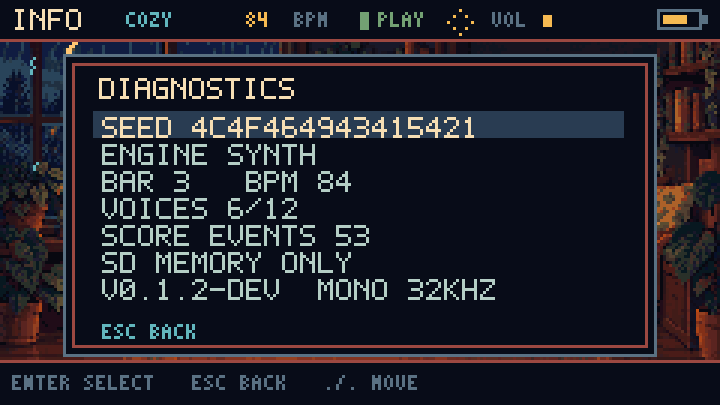
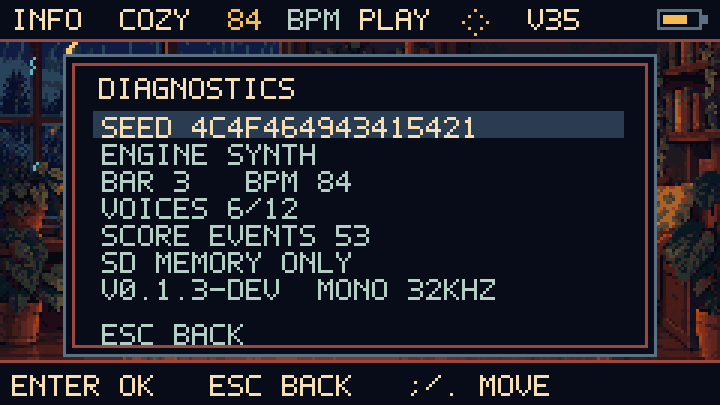
Fix LCD RGB565 byte order and improve small-screen text readability

diff --git a/firmware/src/ui/ui.cpp b/firmware/src/ui/ui.cpp
@@ -2,6 +2,7 @@
 
 #include <cstddef>
 #include <cstdint>
+#include <cstdio>
 
 namespace lofi {
 
@@ -120,6 +121,7 @@ std::uint8_t glyph5Row(char c, int row) {
     case '_': return row == 6 ? 0x1f : 0;
     case '.': return row == 6 ? 0x04 : 0;
     case ',': return row == 5 ? 0x04 : (row == 6 ? 0x08 : 0);
+    case ';': return row == 2 || row == 5 ? 0x04 : (row == 6 ? 0x08 : 0);
     case ':': return (row == 2 || row == 5) ? 0x04 : 0;
     case '!': return (row < 5) ? 0x04 : (row == 6 ? 0x04 : 0);
     case '?': return row == 0 ? 0x0e : (row == 1 ? 0x11 :
@@ -394,37 +396,34 @@ void drawStatus(Frame& frame, const View& view, const char* title) {
     frame.fillRect(0, 0, 240, 14, Ink);
     frame.fillRect(0, 13, 240, 1, Brick);
     drawText(frame, 4, 3, title, Cream, 35);
-    drawTinyText(frame, 42, 4, moodName(view.mood), Rain, 34);
-    drawTinyNumber(frame, 82, 4, clampInt(view.bpm, 0, 999), Gold, 13);
-    drawTinyText(frame, 98, 4, "BPM", Haze, 20);
-    if (view.playing) {
-        drawTinyText(frame, 126, 4, "PLAY", Leaf, 24);
-        frame.fillRect(120, 4, 3, 6, Leaf);
-    } else {
-        drawTinyText(frame, 126, 4, "PAUSE", Amber, 28);
-        frame.fillRect(120, 4, 2, 6, Amber);
-        frame.fillRect(123, 4, 2, 6, Amber);
-    }
+    drawText(frame, 40, 3, moodName(view.mood), Cream, 29);
+    char bpm[4], volume[5];
+    std::snprintf(bpm, sizeof(bpm), "%d", clampInt(view.bpm, 0, 999));
+    std::snprintf(volume, sizeof(volume), "V%d", clampInt(view.volume, 0, 100));
+    drawText(frame, 76, 3, bpm, Gold, 17);
+    drawText(frame, 96, 3, "BPM", Moon, 17);
+    drawText(frame, 120, 3, view.playing ? "PLAY" : "PAUSE", Cream, 29);
     if (view.favorite) {
-        drawStar(frame, 153, 7, Gold);
+        drawStar(frame, 158, 7, Gold);
     }
-    drawTinyText(frame, 164, 4, "VOL", Haze, 18);
-    frame.fillRect(181, 5, clampInt(view.volume, 0, 100) / 10, 4, view.volume == 0 ? Brick : Gold);
+    drawText(frame, 176, 3, volume, view.volume == 0 ? Amber : Cream, 23);
     drawBattery(frame, 219, 3, view.batteryPercent);
 }
 
 void drawFooter(Frame& frame, const View& view) {
-    frame.fillRect(0, 118, 240, 17, Ink);
-    frame.fillRect(0, 118, 240, 1, Brick);
+    // Two seven-pixel rows, with solid backing and a two-pixel line gap.
+    // Keep the essentials here; the help screen carries the full key list.
+    frame.fillRect(0, 115, 240, 20, Ink);
+    frame.fillRect(0, 115, 240, 1, Brick);
     if (view.notice[0] != '\0') {
-        drawTinyText(frame, 4, 121, view.notice, Gold, 232);
-        drawTinyText(frame, 4, 128, "SPACE PLAY   -/= VOL   H HELP", Haze, 232);
+        drawText(frame, 4, 118, view.notice, Gold, 232);
+        drawText(frame, 4, 127, "SPACE PLAY   -/= VOL   H HELP", Cream, 232);
     } else if (view.pending) {
-        drawTinyText(frame, 4, 121, "NEXT SESSION QUEUED", Gold, 130);
-        drawTinyText(frame, 4, 128, "SPACE PLAY   -/= VOL   N NEXT", Haze, 232);
+        drawText(frame, 4, 118, "NEXT SESSION QUEUED", Gold, 232);
+        drawText(frame, 4, 127, "SPACE PLAY   -/= VOL   H HELP", Cream, 232);
     } else {
-        drawTinyText(frame, 4, 121, "SPACE PLAY   -/= VOL   N NEXT   M MOOD", Haze, 232);
-        drawTinyText(frame, 4, 128, "F FAVORITE   L LIST   V CLEAN   S SET   H HELP", Haze, 232);
+        drawText(frame, 4, 118, "SPACE PLAY   -/= VOL   M MOOD", Cream, 232);
+        drawText(frame, 4, 127, "N NEXT   F FAV   V CLEAN   H HELP", Cream, 232);
     }
 }
 
@@ -449,7 +448,7 @@ void drawMenuFrame(Frame& frame, const char* title, const View& view) {
         drawCenteredText(frame, 34, 170, 54, "NO ITEMS YET", Haze);
         drawCenteredText(frame, 34, 170, 66, "PRESS ESC TO RETURN", Haze);
     }
-    drawTinyText(frame, 34, 108, "ENTER SELECT   ESC BACK   ,/. MOVE", Rain, 168);
+    // Navigation hints live in the footer, outside the eight menu rows.
 }
 
 void drawHelp(Frame& frame, const View& view) {
@@ -458,16 +457,17 @@ void drawHelp(Frame& frame, const View& view) {
     frame.rect(13, 18, 214, 99, Brick);
     drawText(frame, 20, 22, "POCKET LOFI KEYS", Cream, 200);
     static const char* const lines[] = {
-        "SPACE PLAY / PAUSE", "- = VOLUME", "N NEXT SESSION", "M MOODS",
+        "SPACE PLAY/PAUSE", "- = VOLUME", "N NEXT SESSION", "M MOODS",
         "F FAVORITE", "L FAVORITES", "V CLEAN VIEW", "S SETTINGS",
-        "H HELP", "ENTER SELECT", "ESC BACK", ", /. MOVE",
+        "E SYNTH/HYBRID", "H HELP", "ENTER SELECT", "ESC BACK",
+        "; . UP/DOWN", ", / ADJUST",
     };
-    for (int i = 0; i < 12; ++i) {
-        const int x = (i & 1) == 0 ? 20 : 126;
+    for (int i = 0; i < 14; ++i) {
+        const int x = (i & 1) == 0 ? 20 : 128;
         const int y = 34 + (i / 2) * 11;
-        drawTinyText(frame, x, y + 1, lines[i], (i == 0 || i == 8) ? Gold : Moon, 96);
+        drawText(frame, x, y, lines[i], (i == 0 || i == 8) ? Gold : Cream, 101);
     }
-    drawTinyText(frame, 20, 108, view.notice[0] != '\0' ? view.notice : "SMALL KEYS KEEP THE ROOM QUIET", Rain, 198);
+    (void)view;
 }
 
 void drawDiagnostics(Frame& frame, const View& view) {
@@ -500,7 +500,7 @@ void drawDiagnostics(Frame& frame, const View& view) {
                      view.sdReady ? Leaf : Amber, 171);
         drawTinyText(frame, 34, 91, view.clean ? "CLEAN VIEW ON" : "OVERLAY VIEW ON", Rain, 171);
     }
-    drawTinyText(frame, 34, 108, "ESC BACK", Rain, 178);
+    drawText(frame, 34, 108, "ESC BACK", Moon, 178);
 }
 
 void drawOverlay(Frame& frame, const View& view) {
@@ -646,8 +646,8 @@ void render(Frame& frame, const View& view) {
             drawStatus(frame, view, "RADIO");
             drawFooter(frame, view);
         } else if (!view.playing || view.pending) {
-            frame.fillRect(4, 4, 68, 10, Ink);
-            drawTinyText(frame, 8, 6, view.playing ? "NEXT QUEUED" : "PAUSED", view.pending ? Gold : Amber, 60);
+            frame.fillRect(4, 4, 68, 12, Ink);
+            drawText(frame, 8, 6, view.playing ? "NEXT QUEUED" : "PAUSED", view.pending ? Gold : Cream, 60);
         }
         return;
     }
@@ -656,7 +656,7 @@ void render(Frame& frame, const View& view) {
     drawOverlay(frame, view);
     frame.fillRect(0, 120, 240, 15, Ink);
     frame.fillRect(0, 120, 240, 1, Brick);
-    drawTinyText(frame, 4, 125, "ENTER SELECT   ESC BACK   ,/. MOVE", Haze, 232);
+    drawText(frame, 4, 125, "ENTER OK   ESC BACK   ;/. MOVE", Cream, 232);
 }
 
 } // namespace lofi

diff --git a/tests/test_display_rgb565.cpp b/tests/test_display_rgb565.cpp
@@ -1,0 +1,77 @@
+// Host-only regression probe for the firmware's uint16_t pushImage path.
+//
+// The UI row converter intentionally returns host-order RGB565 words.  The
+// ADV display is a byte-oriented M5GFX panel, so Display.setSwapBytes(true)
+// must be enabled before pushImage(uint16_t*) converts those words to wire
+// order.  This probe uses the pinned M5GFX pixelcopy implementation itself:
+// it checks that the old raw path fails for non-symmetric palette words and
+// that the swap-bytes conversion produces the expected two wire bytes for
+// every palette entry.
+
+#include <cassert>
+#include <cstdint>
+#include <cstdio>
+#include <cstring>
+
+#include "lofi/ui.h"
+#include "lgfx/v1/misc/pixelcopy.hpp"
+
+namespace {
+
+using namespace lgfx::v1;
+
+void convertToWire(std::uint16_t logical, std::uint8_t out[2]) {
+    rgb565_t source(logical);
+    swap565_t converted;
+    pixelcopy_t copyParams{};
+    copyParams.src_data = &source;
+    copyParams.src_x32 = 0;
+    copyParams.src_y32 = 0;
+    copyParams.src_x32_add = 1u << pixelcopy_t::FP_SCALE;
+    copyParams.src_y32_add = 0;
+    copyParams.src_bitwidth = 1;
+    copyParams.transp = pixelcopy_t::NON_TRANSP;
+
+    const auto copy = pixelcopy_t::get_fp_copy_rgb_affine<rgb565_t>(rgb565_2Byte);
+    assert(copy != nullptr);
+    copy(&converted, 0, 1, &copyParams);
+    std::memcpy(out, &converted, sizeof(converted));
+}
+
+} // namespace
+
+int main() {
+    std::uint16_t endianProbe = 1;
+    assert(*reinterpret_cast<const std::uint8_t*>(&endianProbe) == 1);
+
+    lofi::Frame frame;
+    std::uint16_t row[lofi::kScreenWidth] = {};
+    unsigned oldRawFailures = 0;
+    for (std::uint8_t index = 0; index < lofi::kPaletteSize; ++index) {
+        frame.set(0, 0, index);
+        frame.rowRgb565(0, row);
+        const std::uint16_t logical = row[0];
+        assert(logical == lofi::Frame::paletteRgb565(index));
+        const auto* oldRaw = reinterpret_cast<const std::uint8_t*>(&logical);
+        const std::uint8_t expected[2] = {
+            static_cast<std::uint8_t>(logical >> 8),
+            static_cast<std::uint8_t>(logical & 0xffu),
+        };
+
+        // This is the behavior of pushImage while _swapBytes is false: the
+        // host-order uint16_t is sent as native little-endian memory.
+        if (oldRaw[0] != expected[0] || oldRaw[1] != expected[1]) {
+            ++oldRawFailures;
+        }
+
+        std::uint8_t converted[2] = {};
+        convertToWire(logical, converted);
+        assert(converted[0] == expected[0]);
+        assert(converted[1] == expected[1]);
+    }
+
+    std::printf("palette=%d old_raw_failures=%u swapped_conversion=pass\n",
+                lofi::kPaletteSize, oldRawFailures);
+    assert(oldRawFailures > 0);
+    return 0;
+}

diff --git a/firmware/src/platform/main.cpp b/firmware/src/platform/main.cpp
@@ -134,6 +134,9 @@ void setup() {
     Serial.begin(115200);
     auto config=M5.config();config.internal_mic=false;config.internal_spk=true;
     M5Cardputer.begin(config,true);M5Cardputer.Display.setRotation(1);M5Cardputer.Display.setBrightness(150);
+    // Frame::rowRgb565 emits host-order words. M5GFX 0.2.22 otherwise treats
+    // uint16_t image data as already swapped for the LCD, scrambling colors.
+    M5Cardputer.Display.setSwapBytes(true);
     if(M5.getBoard()!=m5::board_t::board_M5CardputerADV) {fail("Cardputer ADV required");return;}
     // No Wi-Fi/BLE or generic NVS initialization: built-in playback is offline.
     SPI.begin(40,39,14,12);sdMounted=SD.begin(12,SPI,10000000) && SD.cardType()!=CARD_NONE;

diff --git a/firmware/include/lofi/ui.h b/firmware/include/lofi/ui.h
@@ -72,8 +72,9 @@ public:
     void rect(int x, int y, int w, int h, std::uint8_t colour);
     void line(int x0, int y0, int x1, int y1, std::uint8_t colour);
 
-    // Convert one indexed row to the format expected by M5GFX/SDL.  `out`
-    // must point to at least `width` uint16_t values.
+    // Convert one indexed row to host-order RGB565 words (red = 0xf800).
+    // SDL RGB565 consumes these directly; M5GFX's uint16_t pushImage requires
+    // setSwapBytes(true). `out` must hold at least `width` uint16_t values.
     void rowRgb565(int y, std::uint16_t* out) const;
     const std::uint8_t* packed() const { return pixels_; }
 

diff --git a/docs/VERIFICATION.md b/docs/VERIFICATION.md
@@ -1,6 +1,6 @@
 # Implementation and verification
 
-This is the local development candidate for the accepted plan, version **0.1.2-dev**. It keeps both sound candidates available for listening and physical testing. The production engine has not been selected.
+This is the local development candidate for the accepted plan, version **0.1.3-dev**. It keeps both sound candidates available for listening and physical testing. The production engine has not been selected.
 
 ## Implemented
 
@@ -29,13 +29,21 @@ Audio comparison measurements are recorded below. The completed firmware build i
 - Listen through the ADV speaker and jack; compare the two candidates, then select/tune the production sound.
 - Measure startup time, internal free heap/largest block, task stack margins, render deadlines and audible dropouts while animation/keys/SD saves are active. Serial `queue_empty` counts are source-queue observations, not verified DMA underruns.
 - Perform the planned two-hour **device** soak and battery/runtime measurements.
-- Install through the intended M5Apps layout, verify Home/return behavior and neighboring applications, and exercise physical SD failure/recovery. No device has been flashed by this task.
+- Recheck the corrected 0.1.3-dev display on the ADV, verify Home/return behavior and neighboring applications, and exercise physical SD failure/recovery. The user ran 0.1.2-dev on the device and supplied a photo; that establishes startup, not complete installation or hardware acceptance.
 - Implement external SD sample/scene packs later. The current optional SD feature is settings/favorites only.
 - Select the public project license and remote repository, then publish only when requested. The local Git repository and README are prepared; the site is local.
 
 ## Practical behavior
 
 Controls received within the last 20 ms of a bar may wait one extra bar, allowing a complete fade. Favorites replay from the beginning and are version/bank dependent. Rapid changes are coalesced while preserving accepted musical parameters. SD write failures keep changes in RAM and stop saves until restart; hot-plug recovery is not implemented.
+
+## LCD correction · 2026-09-13
+
+The user's first device photo showed recognizable scene geometry with scrambled colors and unreadable text. The native exporter bypasses M5GFX, so its earlier screenshots did not validate the physical transfer. The renderer emits host-order RGB565 words; M5GFX 0.2.22 defaults to treating `uint16_t` image data as already byte-swapped for the LCD. Explicit `Display.setSwapBytes(true)` makes the pinned library convert those words to the LCD byte order. A probe against the actual library reproduced the red-pixel difference: the old path sends `00 F8`, and the corrected path sends `F8 00`. The checked-in `display_rgb565` regression exercises the pinned pixel conversion for all 64 palette entries: the corrected conversion passes all 64, and the old raw path fails 63. Enable this optional CTest target by configuring `LOFI_M5GFX_SOURCE_DIR` with the path to an M5GFX 0.2.22 checkout; it checks library conversion, not physical SPI or the LCD.
+
+Status labels, control hints, clean-view status and help now use 5 × 7 glyphs instead of 3 × 5. The radio footer has two separated rows on a solid dark background and fewer simultaneous shortcuts; help lists the remaining controls, including engine selection and the distinct movement/adjustment keys. The 15 updated native screenshots were visually reviewed. This remains host evidence until the corrected build is checked on the same device.
+
+The composer, samples, schema and save format are unchanged. Six 180-second demos were regenerated with the new build version and retain their previous score hashes and zero clipped samples. The older score-audit and two-hour soak records below remain evidence for the unchanged music core, with their original version metadata preserved.
 
 ## Recorded comparison · 2026-09-13
 
@@ -73,8 +81,8 @@ The pinned M5GFX tag `0.2.22` was verified locally and used through an ignored l
 
 ## Final firmware artifact
 
-Application BIN: 677,104 bytes; 633,616 bytes below the `0x140000` compact limit. Linker static RAM: 67,136 bytes of the 327,680-byte linker budget; dynamic heap/DMA/task overhead still needs device measurements. The project/version marker and ESP application descriptor, image checksum and appended hash are validated. The package contains only the application, install guide, dependency notes, manifest and checksums.
+Application BIN: 676,864 bytes; 633,856 bytes below the `0x140000` compact limit. Linker static RAM: 67,136 bytes of the 327,680-byte linker budget; dynamic heap/DMA/task overhead still needs device measurements. The project/version marker and ESP application descriptor, image checksum and appended hash are validated. The package contains only the application, install guide, dependency notes, manifest and checksums.
 
[2 lines of base64/hex data omitted]
 
-Final test inventory: five native CTest suites (normal and UBSAN), 35 Python tests, validated release archive, SDL smoke run and native-renderer screenshot exports. The harmony update includes 18 score exports, six three-minute A/B demos, two two-hour offline renders, schema-1/2 save retention and current-schema/MP3 provenance checks.
+The 0.1.3-dev update passes six native CTest suites (including the optional M5GFX conversion check) and 35 Python tests; its release archive and 15 native-renderer screenshots are validated. The host's full system temporary disk initially interrupted firmware compilation and the storage test; using an ignored project build directory as `TMPDIR` allowed both to complete. The preceding harmony update also passed UBSAN and an SDL smoke run, with 18 score exports, six three-minute A/B demos, two two-hour offline renders, schema-1/2 save retention and current-schema/MP3 provenance checks.

diff --git a/README.md b/README.md
@@ -4,7 +4,7 @@ An offline, endless lofi radio for **M5Stack Cardputer ADV**. The ESP32-S3 compo
 
 ![The shared pixel-art scene, rendered on desktop](docs/media/scene.gif)
 
-**Development candidate · 0.1.2-dev.** The native preview and firmware share the music engine and 240 × 135 drawing code. Desktop exports are available; physical audio quality, timing, SD behavior and M5Apps installation still need device testing. This is an independent project, inspired by the atmosphere of cozy study radio.
+**Development candidate · 0.1.3-dev.** The native preview and firmware share the music engine and 240 × 135 drawing code. An initial device run exposed an LCD byte-order bug; this update corrects the transfer and enlarges the status, control and help text. The corrected display, physical audio quality, timing, SD behavior and launcher return still need device verification. This is an independent project, inspired by the atmosphere of cozy study radio.
 
 ## What works in this implementation
 
@@ -48,7 +48,7 @@ For persistent desktop favorites, add `--state build/local-state.bin`. Explicit 
 
 A favorite reproduces a session from its beginning with the same generation schema, parameters and bank. It does not restore the current playback position.
 
-Version 0.1.2-dev uses generation schema 3 (`lofi3-` favorite codes). Earlier saved favorites remain visible as `OLD` and removable, while settings remain usable. Replay those favorites with the earlier firmware; the richer arrangement changes the score generated from their seed.
+Version 0.1.3-dev retains generation schema 3 (`lofi3-` favorite codes) from 0.1.2-dev, so its settings and favorites remain compatible. Earlier schema-1/2 favorites remain visible as `OLD` and removable, while settings remain usable. Replay those favorites with the earlier firmware; the richer arrangement changes the score generated from their seed.
 
 ## Compare the sound engines
 

diff --git a/docs/INSTALL.md b/docs/INSTALL.md
@@ -7,7 +7,7 @@ This is an **application-only development image**, built against a conservative 
 ## Existing M5Apps installation
 
 1. Verify `SHA256SUMS` for the package. On macOS/Linux use `shasum -a 256 -c SHA256SUMS` from the extracted folder.
-2. Copy `cardputer-lofi-0.1.2-dev.bin` to an SD card.
+2. Copy `cardputer-lofi-0.1.3-dev.bin` to an SD card.
 3. On the device, open **M5Apps → Installer → SD**, select the BIN and use the installer's compatible application slot.
 4. Launch the installed app. Start at low volume and test the speaker and headphone output separately.
 5. The built-in scene, music engines and instrument bank work without SD. To test that baseline, power down, remove SD, and restart the app.
@@ -30,4 +30,4 @@ In menus use `;` / `.` up/down, `,` / `/` left/right, Enter select, backtick/Esc
 
 Mood/engine/session changes take effect at the next bar with a fade. A favorite restarts a seed at its beginning, not at the point where it was saved. Replay is tied to generation schema, parameters and the matching hybrid sample bank.
 
-Version 0.1.2-dev changes the composer to schema 3 and emits `lofi3-` codes. Existing schema-1 and schema-2 favorites stay in the save file and display `OLD`; they require the earlier firmware for faithful replay. Settings are retained, and old favorites can be removed normally. Do not reinterpret a `lofi1-` or `lofi2-` code as the same composition under schema 3.
+Version 0.1.3-dev fixes LCD RGB565 byte order and enlarges status, control and help text. It retains 0.1.2-dev's schema 3 and `lofi3-` codes, so settings and favorites from that version remain compatible. Existing schema-1 and schema-2 favorites stay in the save file and display `OLD`; they require the earlier firmware for faithful replay. Settings are retained, and old favorites can be removed normally. Do not reinterpret a `lofi1-` or `lofi2-` code as the same composition under schema 3.
